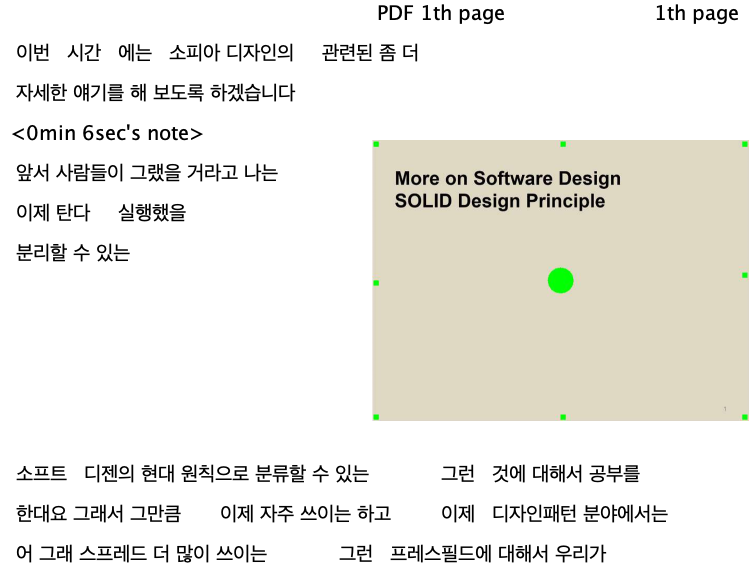
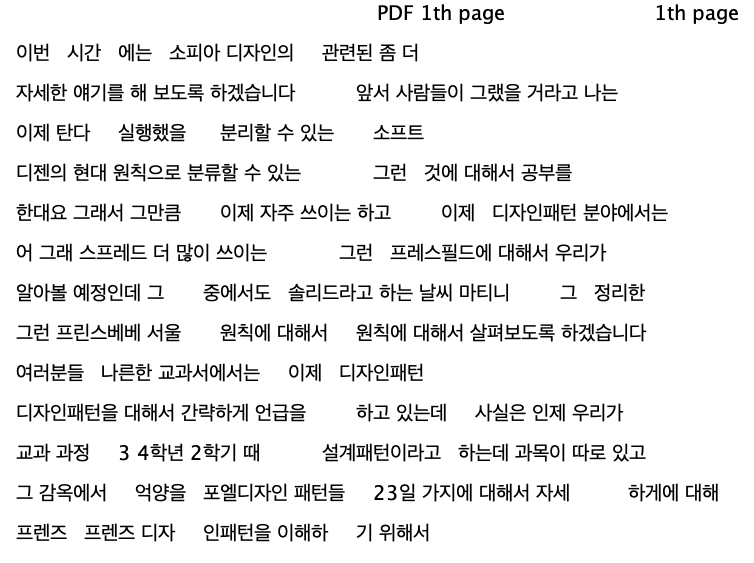
TTI_fixed
fix null note

diff --git a/TextToImage/src/test/TextToImgDemo.java b/TextToImage/src/test/TextToImgDemo.java
@@ -10,9 +10,9 @@ public class TextToImgDemo
 	public static void main(String[] args) throws Exception {
 		String[] sttstring = {"이번","  시간"," 에는","  소피아 디자인의","  관련된 좀 더","  자세한 얘기를 해 보도록 하겠습니다","  앞서 사람들이 그랬을 거라고 나는","  이제 탄다","  실행했을 "," 분리할 수 있는","  소프트","  디젠의 현대 원칙으로 분류할 수 있는","  그런","  것에 대해서 공부를","  한대요 그래서 그만큼","  이제 자주 쓰이는 하고","  이제","  디자인패턴 분야에서는","  어 그래 스프레드 더 많이 쓰이는","  그런","  프레스필드에 대해서 우리가","  알아볼 예정인데 그","  중에서도","  솔리드라고 하는 날씨 마티니","  그","  정리한","  그런 프린스베베 서울","  원칙에 대해서","  원칙에 대해서 살펴보도록 하겠습니다","  여러분들","  나른한 교과서에서는","  이제","  디자인패턴","  디자인패턴을 대해서 간략하게 언급을","  하고 있는데","  사실은 인제 우리가","  교과 과정","  3 4학년 2학기 때","  설계패턴이라고","  하는데 과목이 따로 있고","  그 감옥에서","  억양을","  포엘디자인 패턴들","  23일 가지에 대해서 자세"," 하게에 대해"," 프렌즈","  프렌즈 디자"," 인패턴을 이해하"," 기 위해서","  연필에 대해 알아야 되는 그런","  설계 관련된","  기본적인","  원칙이라고도 보시면 되겠습니다","  그래서","  솔리드","  대해서 이제 우리가","  공부 해 보도록 하고","  20 자세한","  내용은 제가 이제","  별첨으로","  드는","  쏠리는 프린스페 관련된","  아티클에 읽어보지는","  솔리드프로 어떤","  내용을 담고 있는지 그리고","  스케줄 어떻게","  되는지","  더 자세히 볼 수가 있겠습니다","  우리 4학년 2학기","  때","  설계패턴이라고","  하는 방법을 배운다 그랬죠","  그래서 패턴에서는","  돼 목포에","  디자인패턴","  23가지의","  디자인패턴을 정리라고 있는데","  그 중에 한 가지는","  열등전략 배터리 되겠습니다 전략패턴 내용은 간단하게","  정리해서 본다면","  2절 나타내는 것은","  알고리즘에 분들","  정해 라고요","  그리고 그러한 알고리즘들을","  위챗 슬레이트 갖고","  각각의 알고리즘들을","  서로"," 변화"," 시킬 수","  있게","  될 수 있게","  만들어","  줍니다","  결국은","  전략패턴 사용하게","  되면","  클라이언트가","  사용하고 있는","  그런","  알고리즘들이","  클라이언트와","  별개로","  독립적으로","  변할 수 있겠지","  알고리즘에","  변경해","  것을 사용하고 있는","  클라이언트 영향을 미치지 않는다는 뜻이겠죠","  만들어집니다","  자 이렇게 이제 우리 어때 목포에","  디자인패턴을 정렬할 수 있겠는데","  사시는 이렇게만 공부를","  한다면 대단히","  부족한","  그리고","  있는","  그런 디자인","  공부입니다","  왜냐면 이거 같은 레벨에서의","  디자인패턴을 치질은 어떤"," 현실에서 일어"," 나는","  그외디자인","  문제에 있어서","  그런 부장님 제가","  최근에 나온","  경우 책에 나온","  그런","  것들과 조금만 틀어지거나","  혹은","  약간의","  확장을","  욕할 때 하는","  거죠 그래서","  오늘은","  좋은 디자인을","  배우는","  순간에는","  디자인패턴 만","  배우면 충분한 것이 아니라","  그것을","  서포트하고 있는 거","  같은데","  만들어야 돼 더","  근본적인","  객체지향성이 원칙을 연달아입니다","  배웠던 글라스락 패턴도","  객체지향 설계 원칙","  알아볼 수가 없고요 아니라는 것을","  서포트하고 있는"};
 		ArrayList<String> sttarray = new ArrayList<>(Arrays.asList(sttstring));
-		ArrayList<Integer> change = new ArrayList<>();
-		change.add(50); // 설계 관련된~
-		change.add(70);
+		ArrayList<Integer> change = null;
+		//change.add(50); // 설계 관련된~
+		//change.add(70);
 		ArrayList<Point> index = new ArrayList<>();
 		index.add(new Point(6, 10)); //앞서 사람들이 그랬을 거라고~
 		index.add(new Point(30, 36)); //여러분들","  나른한 교과서에서는","  이제","  디자인패턴~
@@ -21,7 +21,7 @@ public class TextToImgDemo
 		System.out.println(sttstring[50]);
 		System.out.println(sttstring[70]);
 		
-		ArrayList<Note> notes = new ArrayList<>();
+		ArrayList<Note> notes = null;
 		ArrayList<BufferedImage> imgs = new ArrayList<>();
 		PDFandIMG pdfandimg = new PDFandIMG();
 		
@@ -30,7 +30,7 @@ public class TextToImgDemo
 			IMG_Resize resize = new IMG_Resize(imgs.get(0).getWidth()/2,imgs.get(0).getHeight()/2);
 			int i = 0;
 			for(BufferedImage note : imgs) {
-				notes.add(new Note(resize.ResizeIMG(note),index.get(i).x,index.get(i).y));
+				//notes.add(new Note(resize.ResizeIMG(note),index.get(i).x,index.get(i).y));
 				i++;
 			}
 		} catch (IOException e) {

diff --git a/TextToImage/src/test/TextToImg.java b/TextToImage/src/test/TextToImg.java
@@ -21,7 +21,7 @@ public class TextToImg {
 	private ArrayList<Note> notes;
 	private ArrayList<String> string;
 	private ArrayList<Integer> changedP;
-	private ArrayList<BufferedImage> result = new ArrayList<BufferedImage>();
+	private ArrayList<BufferedImage> result = new ArrayList<>();
 	private int width;
 	private int height;
 	private int pdfPages = 1;
@@ -57,10 +57,10 @@ public class TextToImg {
 		int cPosIndex = 0;
 		int widthMargin = width;
 		int heightMargin = 0;
-
+		Note note = null;
 		boolean notePrinted = false;
 		
-		Note note = notes.get(noteIndex++);
+		if (notes != null) note = notes.get(noteIndex++);
 		BufferedImage noteImg = null; 
 		System.out.println("width : " + width + " | height : " + height);
 		
